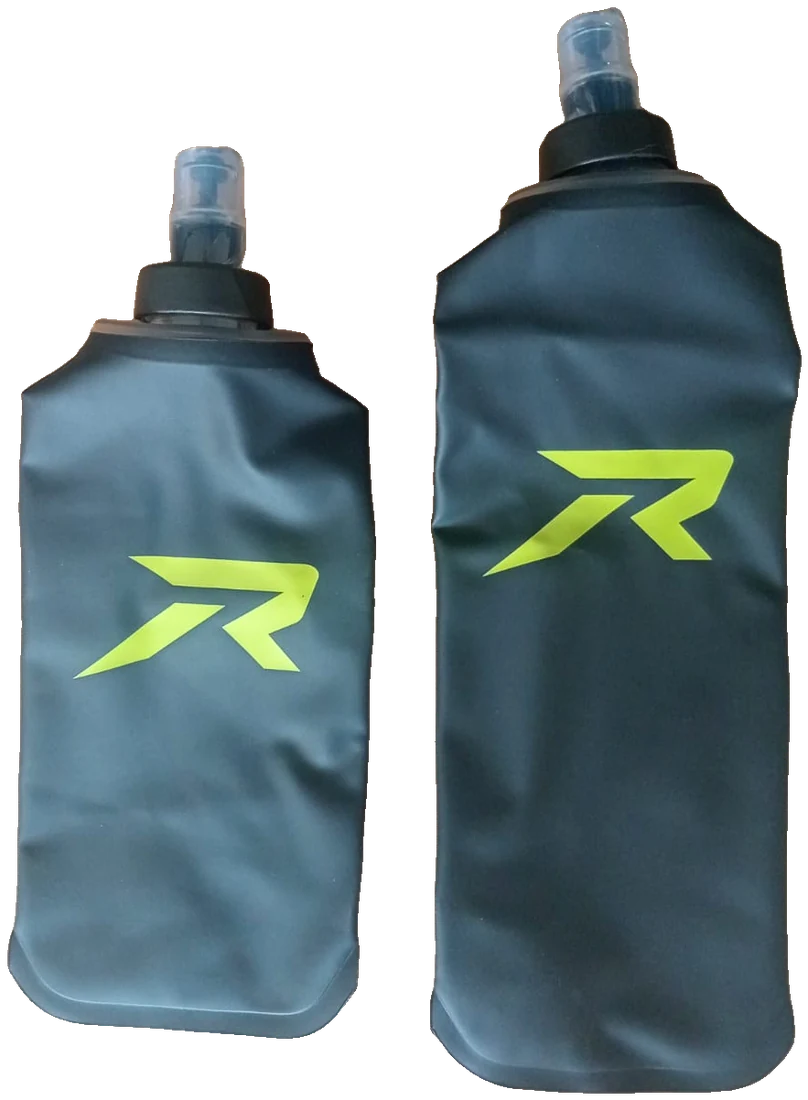
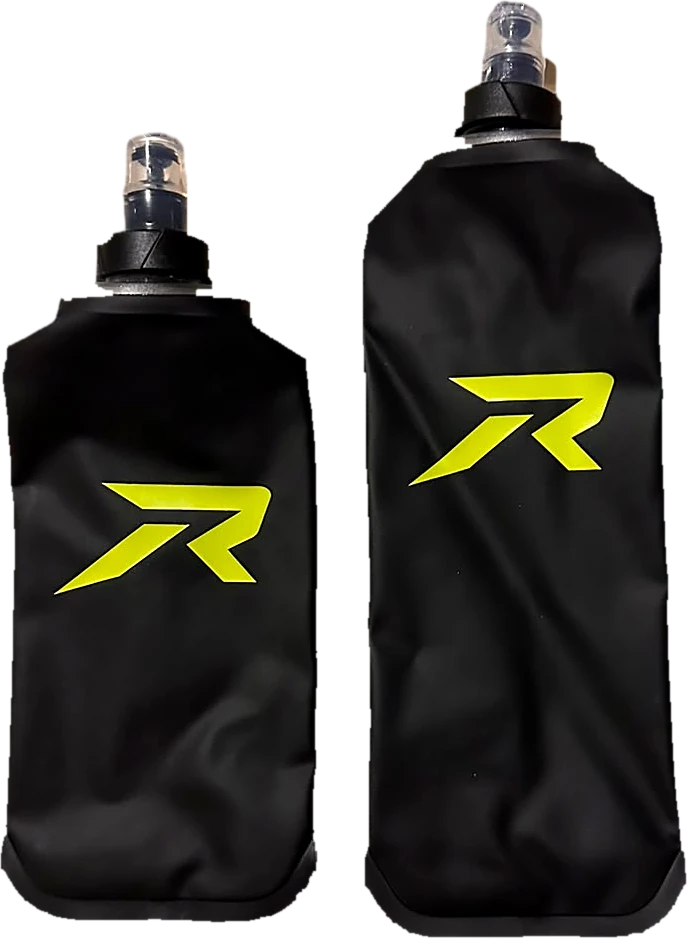
actaulziand

diff --git a/index.html b/index.html
@@ -383,7 +383,7 @@
                 <span class="prod__num" aria-hidden="true">02</span>
                 <figure class="prod__media" data-tilt>
                     <div class="prod__plate" aria-hidden="true"></div>
-                    <img class="prod__img prod__img--main prod__img--tall" src="img/web/flasks-black.webp" width="808" height="1100" alt="Dos ánforas de TPU Rivalis, de 350 ml y 500 ml, en color grafito con el logotipo R en lima" loading="lazy" decoding="async">
+                    <img class="prod__img prod__img--main prod__img--tall" src="img/web/flasks-black.webp" width="687" height="938" alt="Dos ánforas de TPU Rivalis, de 350 ml y 500 ml, en color negro con el logotipo R en lima" loading="lazy" decoding="async">
                 </figure>
                 <div class="prod__body">
                     <p class="prod__tag"><svg class="ico" aria-hidden="true"><use href="#i-flask"/></svg>Hidratación</p>
